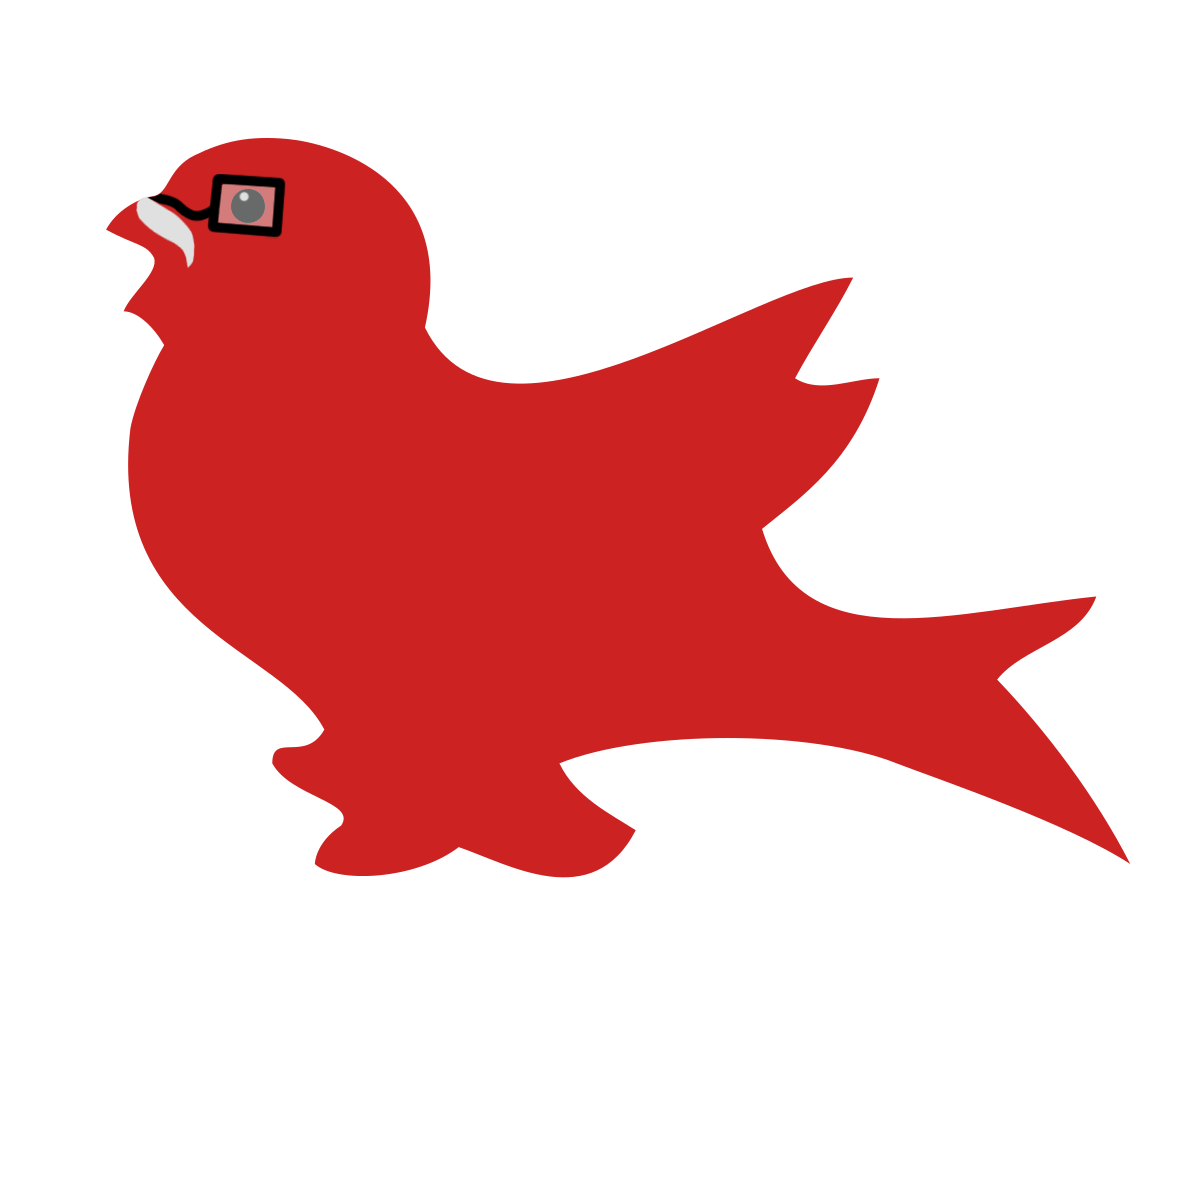
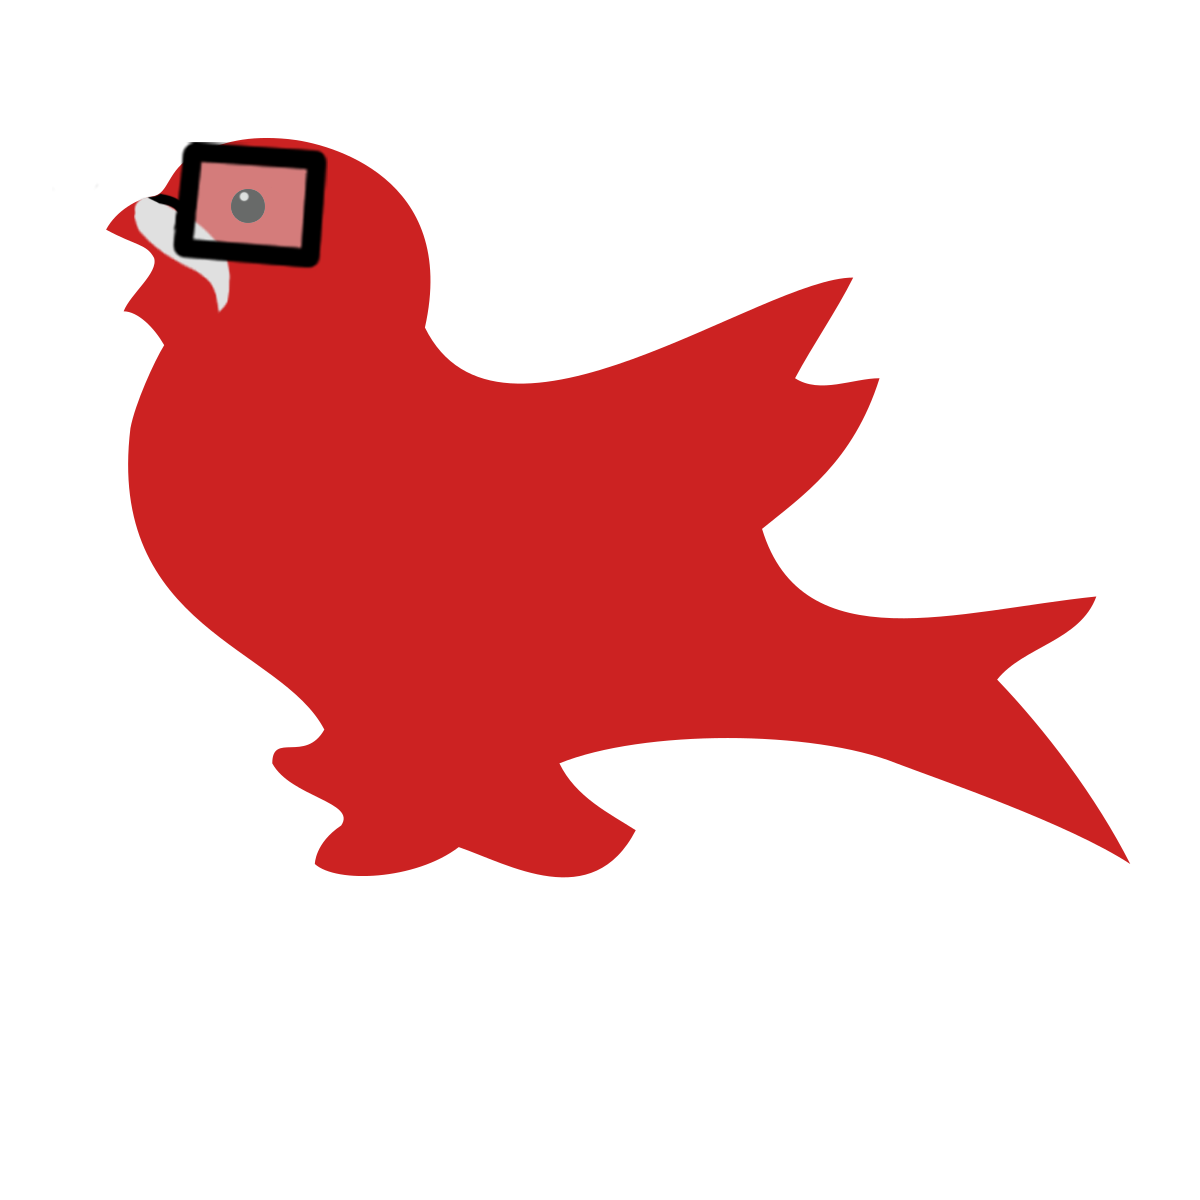
small fixes

Changed region(s): [[0.0925, 0.0925, 0.2775, 0.2467]]

diff --git a/app/layout.js b/app/layout.js
@@ -1,4 +1,5 @@
 import { Inter } from "next/font/google";
+import Script from "next/script";
 import "./globals.css";
 
 const inter = Inter({ subsets: ["latin"] });
@@ -14,20 +15,18 @@ export default function RootLayout({ children }) {
     <html lang="en">
       <head>
         {/* Global site tag (gtag.js) - Google Analytics */}
-        <script
+        <Script
           async
           src="https://www.googletagmanager.com/gtag/js?id=G-114KGHX8PR"
-        ></script>
-        <script
-          dangerouslySetInnerHTML={{
-            __html: `
+        />
+        <Script id="google-analytics" strategy="afterInteractive">
+          {`
               window.dataLayer = window.dataLayer || [];
               function gtag(){dataLayer.push(arguments);}
               gtag('js', new Date());
               gtag('config', 'G-114KGHX8PR');
-            `,
-          }}
-        />
+            `}
+        </Script>
       </head>
       <body className={inter.className}>{children}</body>
     </html>

diff --git a/app/page.js b/app/page.js
@@ -1,3 +1,4 @@
+import Image from "next/image";
 import styles from "./page.module.css";
 
 export default function Home() {
@@ -6,11 +7,12 @@ export default function Home() {
       <ul>
         <li>
           <a href="/">
-            <img
+            <Image
               id="logo"
-              src="Martlet-glasses.png"
+              src="/Martlet-glasses.png"
               alt="Find My Prof"
-              style={{ width: "50px", height: "auto" }}
+              width={50}
+              height={50}
             />
           </a>
         </li>
